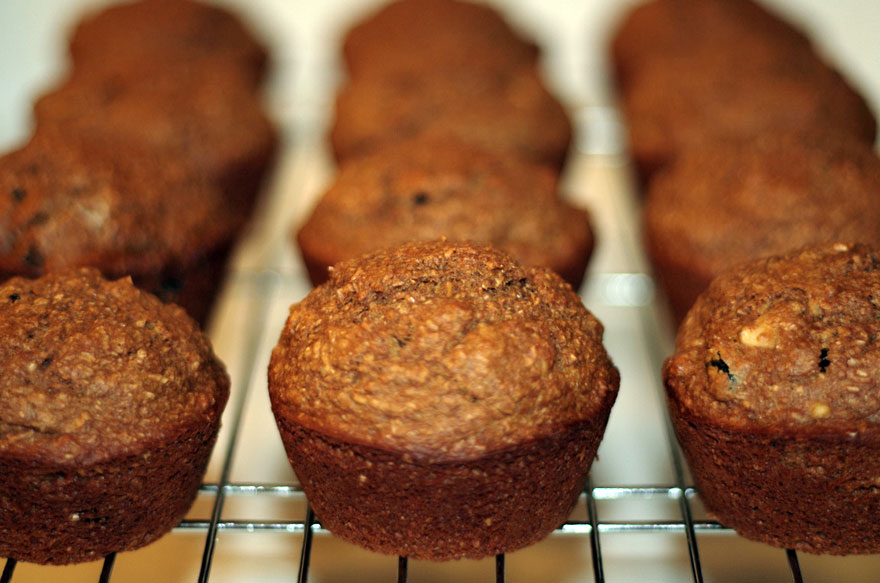
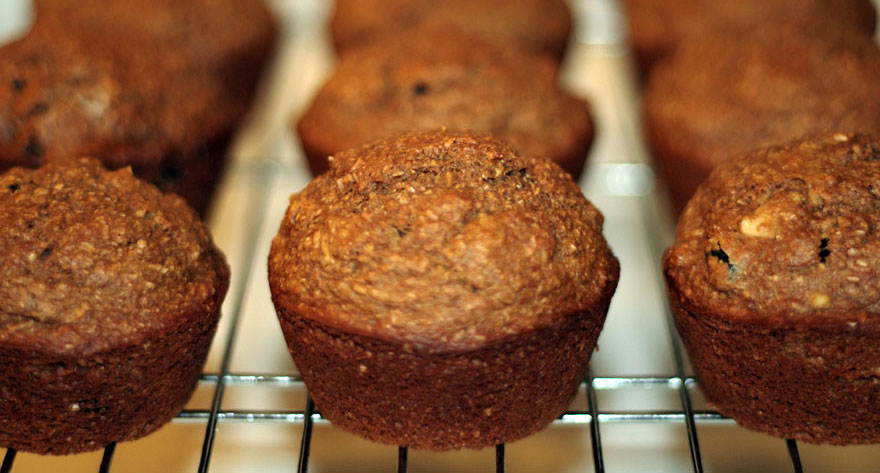
Add livestrong image, clean up muffins image

diff --git a/_posts/2013-01-17-lance-armstrong.md b/_posts/2013-01-17-lance-armstrong.md
@@ -5,6 +5,12 @@ subtitle: A sad interview.
 tags: text
 ---
 
-I've met a lot of people who took real inspiration from Lance Armstrong, and I was personally inspired by his book when I read it during treatment. His interview doesn't seem to show much remorse other than the fact that he got caught, which is a shame. A part of me wonders if he would've been so obstinate about his "innocence" if he weren't such a symbol for millions of actively suffering people... but then I remember the millions of dollars of endorsements and his pervasive egotism even in the face of getting caught. And sadly, I just don't buy it.
+<div class="photo-block top">
+    <a href="https://secure.flickr.com/photos/prestonkemp/3890106986/sizes/l/in/photostream/" target="_blank" title="prestonkemp on flickr"><img src="/assets/img/2013-01-17_livestrong.jpg" title="Livestrong"/></a>
+</div>
+
+I've met a lot of people who took real inspiration from Lance Armstrong, and I was personally inspired by his book when I read it during treatment. His interview doesn't seem to show much remorse other than the fact that he got caught, which is a shame. A part of me wonders if he would've been so obstinate about his "innocence" if he weren't such a symbol for millions of actively suffering people... 
+
+But then I remember the millions of dollars of endorsements and his pervasive egotism even in the face of getting caught. And sadly, I just don't buy it.
 
 Luckily people continue to live strong without the aid of a stupid yellow bracelet.
